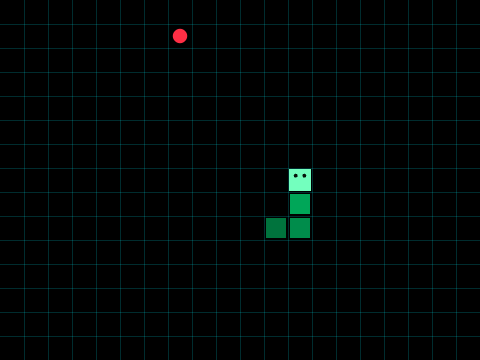
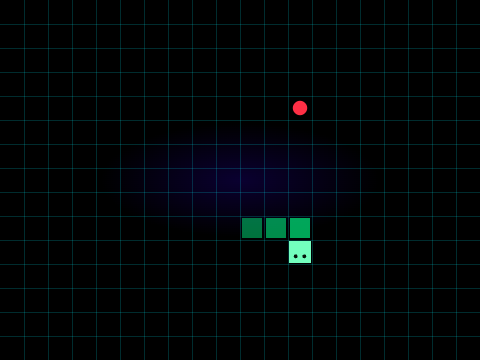
style(serpiente): lienzo transparente y el resplandor comun del tubo
El escenario tenia un radial verde propio (#001a06) y el motor rellenaba
el lienzo de negro, asi que el tablero quedaba como una losa plana dentro
de un tubo de neon. Ahora usa el mismo radial #0a0030 que .tetris-stage y
.minas-stage, y el lienzo se limpia con clearRect en vez de rellenarse:
el resplandor se ve a traves del tablero, igual que en TETRIX, que es el
patron de la casa. La rejilla ya usaba --line y la serpiente --green y la
fruta --red, asi que no habia nada mas que tokenizar.

Portada regenerada: la anterior enseñaba el fondo negro viejo.

Changed region(s): [[0.3438, 0.4278, 0.6562, 0.7333], [0.5938, 0.275, 0.6562, 0.3361], [0.3438, 0.0611, 0.4062, 0.1222]]

diff --git a/app/globals.css b/app/globals.css
@@ -2486,9 +2486,13 @@
   justify-content: center;
   gap: clamp(6px, 1.5%, 14px);
   padding: clamp(6px, 1.5%, 14px);
+  /* El mismo resplandor que `.tetris-stage` y `.minas-stage`, no uno verde
+     propio: el tubo es el mismo mueble en los cinco juegos y el color del
+     juego lo ponen sus piezas, no su fondo. El lienzo se limpia con
+     `clearRect`, así que este gradiente se ve a través del tablero. */
   background: radial-gradient(
     ellipse 45% 70% at 50% 50%,
-    #001a06 0%,
+    #0a0030 0%,
     #000 45%,
     transparent 25%
   );

diff --git a/components/serpiente-game.tsx b/components/serpiente-game.tsx
@@ -117,8 +117,10 @@ function SerpienteGameImpl({
 
     const [green, red, line] = colorsRef.current;
 
-    ctx.fillStyle = "#000";
-    ctx.fillRect(0, 0, WIDTH, HEIGHT);
+    // Transparente, no negro: igual que TETRIX, el lienzo deja ver el
+    // resplandor de `.snake-stage` que hay detrás. Rellenarlo de negro lo
+    // tapaba y el tablero quedaba como una losa plana dentro del tubo.
+    ctx.clearRect(0, 0, WIDTH, HEIGHT);
 
     // Rejilla tenue: sin ella la serpiente flota y el paso discreto no se lee.
     ctx.strokeStyle = line;
